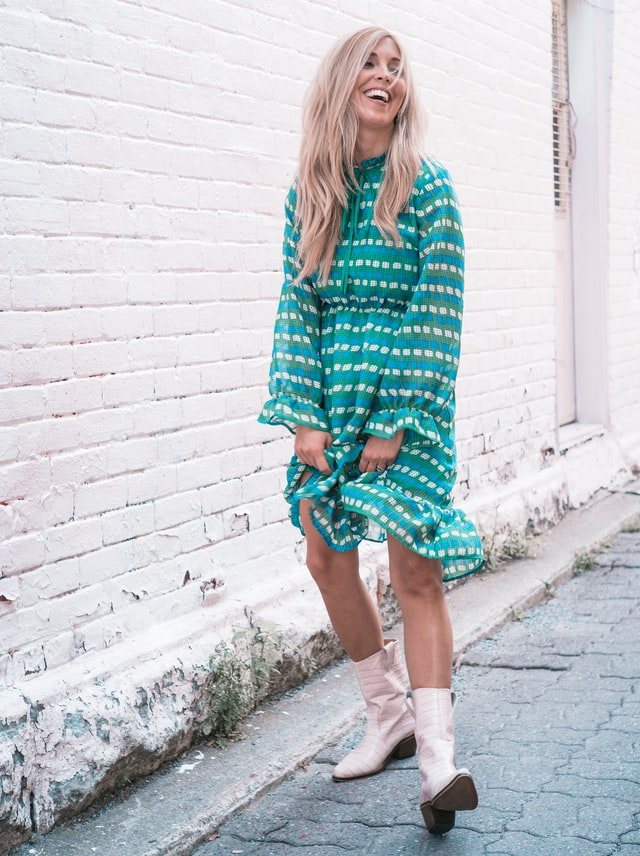
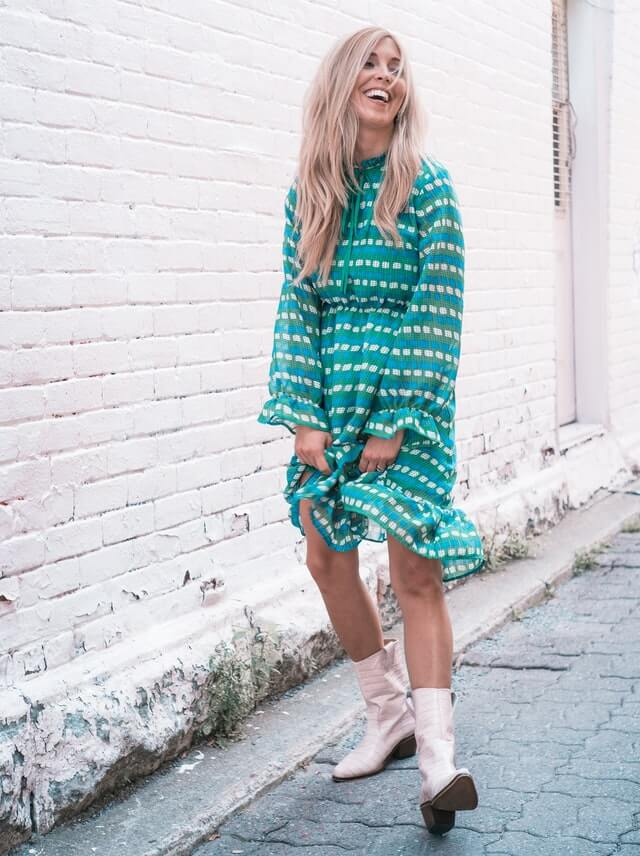
Compressed img files, improved img responsivness

diff --git a/src/index.html b/src/index.html
@@ -71,12 +71,18 @@
 
         <article class="story__container">
           <picture class="slide-in story__img">
-            <source
-              srcset="./img/stories/man-md.jpg"
-              type="image/jpg"
-              media="(min-width:1400px)"
+            <img
+              src="./img/stories/man-sm.jpg"
+              alt="a man standing"
+              srcset="
+                ./img/stories/man-sm.jpg  640w,
+                ./img/stories/man-md.jpg 1920w,
+                ./img/stories/man-lg.jpg 2400w
+              "
+              sizes="(max-width: 50em) 640px,
+              (max-width: 87.5em) 1920px,
+              2400px"
             />
-            <img src="./img/stories/man-sm.jpg" alt="man standing" />
           </picture>
           <div class="slide-in story__text">
             <h3 class="story__heading">Clothes for guys.</h3>
@@ -86,12 +92,18 @@
             </p>
           </div>
           <picture class="slide-in story__img">
-            <source
-              srcset="./img/stories/woman-md.jpg"
-              type="image/jpg"
-              media="(min-width:1400px)"
+            <img
+              src="./img/stories/woman-sm.jpg"
+              alt="a woman standing"
+              srcset="
+                ./img/stories/woman-sm.jpg  640w,
+                ./img/stories/woman-md.jpg 1920w,
+                ./img/stories/woman-lg.jpg 2400w
+              "
+              sizes="(max-width: 50em) 640px,
+              (max-width: 87.5em) 1920px,
+              2400px"
             />
-            <img src="./img/stories/woman-sm.jpg" alt="woman standing" />
           </picture>
           <div class="slide-in story__text">
             <h3 class="story__heading">Fashion for girls.</h3>
@@ -101,14 +113,17 @@
             </p>
           </div>
           <picture class="slide-in story__img">
-            <source
-              srcset="./img/stories/jewellery-md.jpg"
-              type="image/jpg"
-              media="(min-width:1400px)"
-            />
             <img
               src="./img/stories/jewellery-sm.jpg"
-              alt="2 earring on a green leaf"
+              alt="a set of earrings"
+              srcset="
+                ./img/stories/jewellery-sm.jpg  640w,
+                ./img/stories/jewellery-md.jpg 1920w,
+                ./img/stories/jewellery-lg.jpg 2400w
+              "
+              sizes="(max-width: 50em) 640px,
+              (max-width: 87.5em) 1920px,
+              2400px"
             />
           </picture>
           <div class="slide-in story__text">
@@ -120,14 +135,17 @@
             </p>
           </div>
           <picture class="slide-in story__img">
-            <source
-              srcset="./img/stories/electronics-md.jpg"
-              type="image/jpg"
-              media="(min-width:1400px)"
-            />
             <img
               src="./img/stories/electronics-sm.jpg"
-              alt="looking at a forest trail through a phone camera"
+              alt="photographer's hand holding a cellphone"
+              srcset="
+                ./img/stories/electronics-sm.jpg  640w,
+                ./img/stories/electronics-md.jpg 1920w,
+                ./img/stories/electronics-lg.jpg 2400w
+              "
+              sizes="(max-width: 50em) 640px,
+              (max-width: 87.5em) 1920px,
+              2400px"
             />
           </picture>
           <div class="slide-in story__text">
